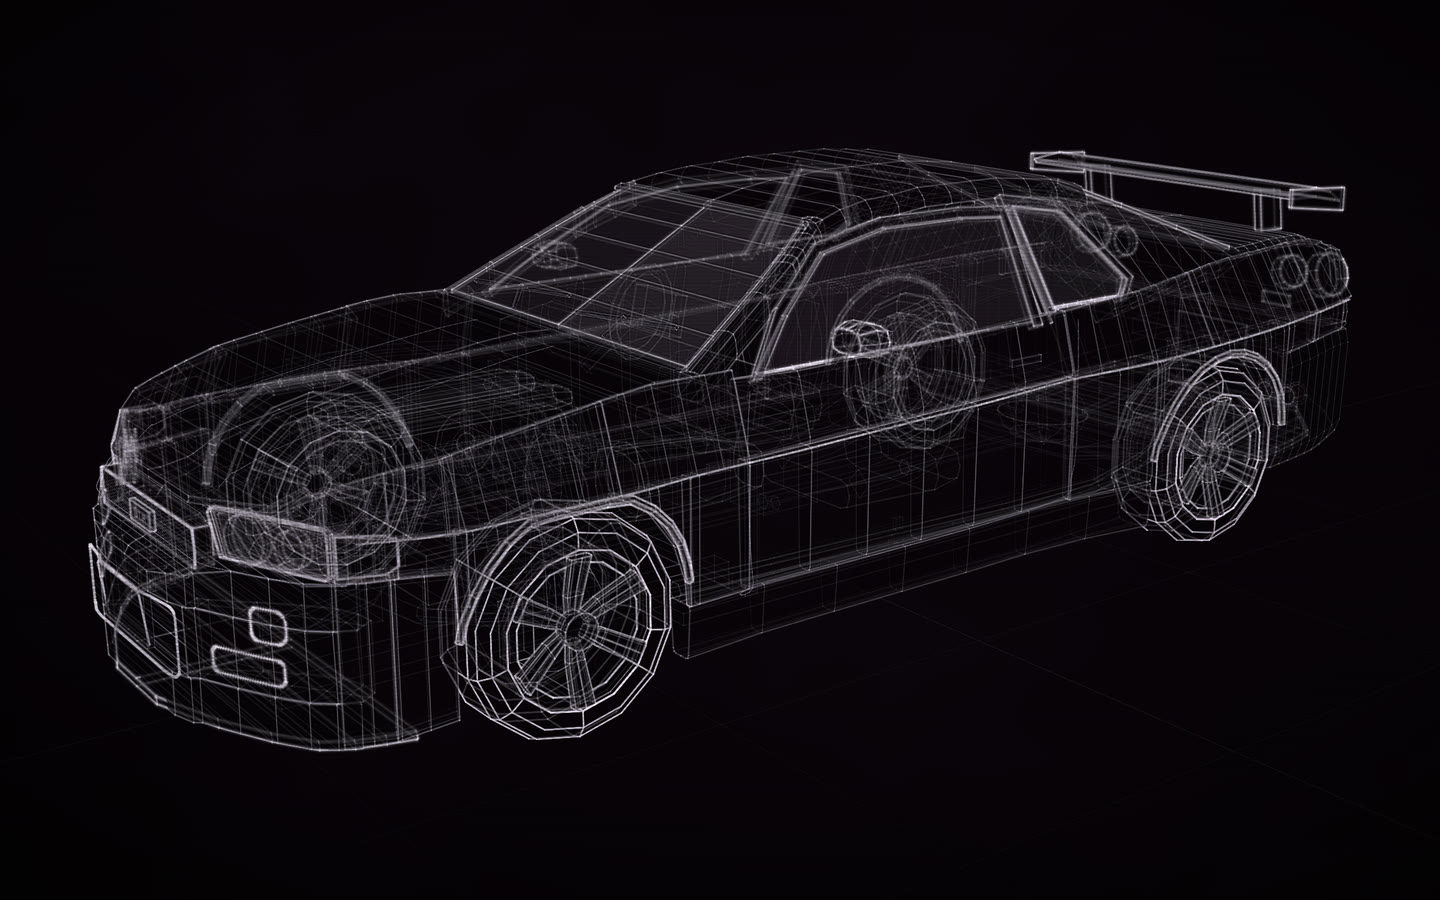
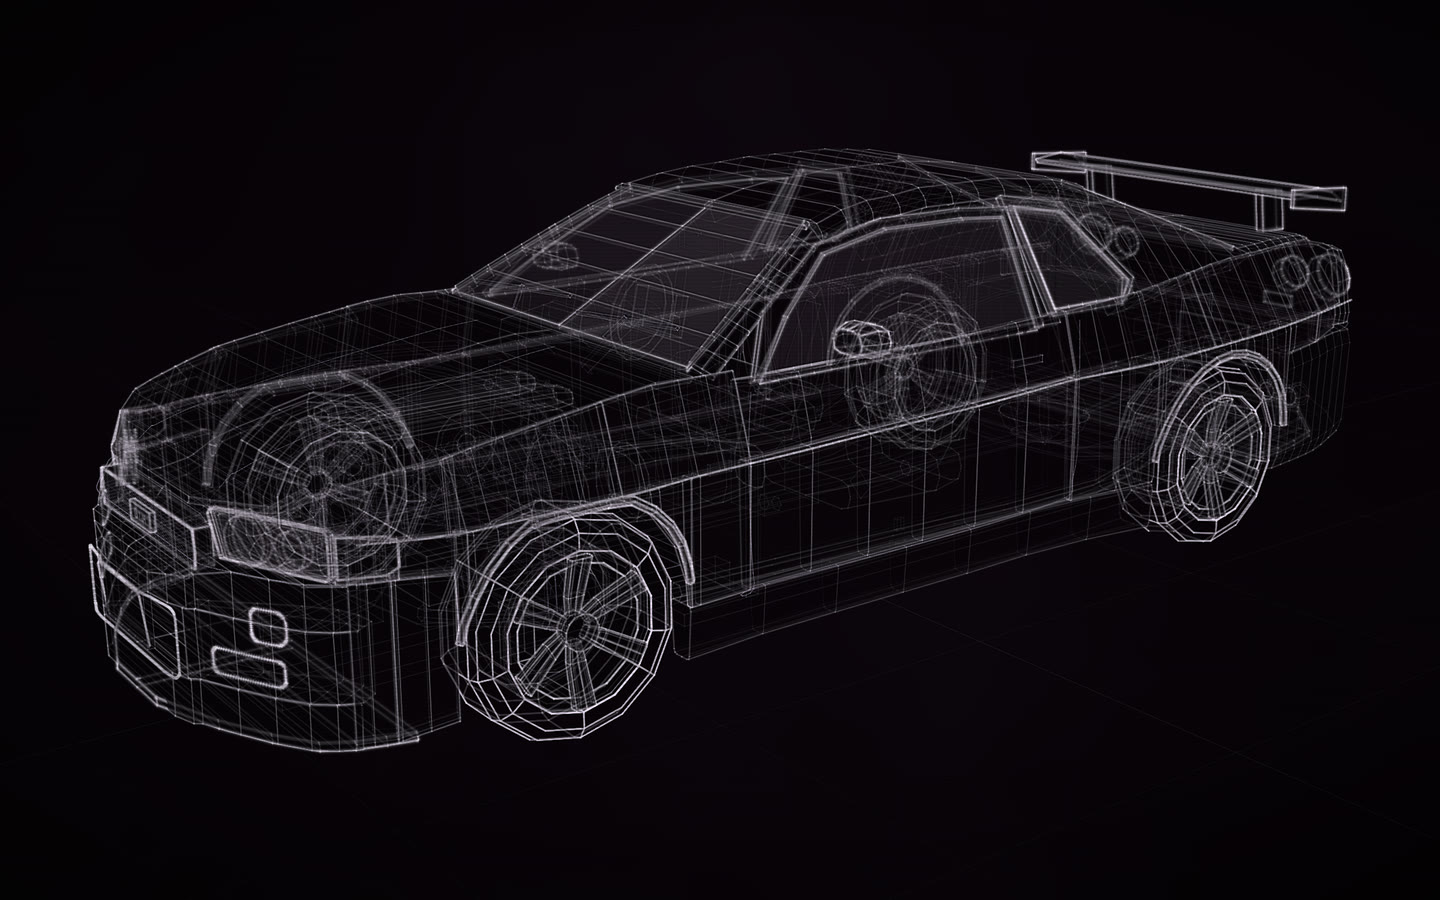
examples: the R34's rear quarters end on the tail panel; its page and gallery images
The upper rear quarter ends where the tail panel begins instead of in a point over its
corner; the page records the glasshouse and corner pass; hero and thumb regenerated.

diff --git a/examples/nissan-skyline-gt-r-r34/README.md b/examples/nissan-skyline-gt-r-r34/README.md
@@ -34,3 +34,22 @@ version showed defects the checks had let through; this version answers them, an
 
 The C-pillar, the sills, the diffuser and its strakes are no longer the tracing, and say so (`inferred`, with a
 note); nothing claims more than before. The light is all but unchanged.
+
+### The glasshouse and the corners (1.2)
+
+A second pass, judged in the solid and in Blender, on what still did not fit:
+
+- **Windows in their frames:** the A-pillars (`a-pillar`, `a-pillar-upper`) were flat-topped bars 10 cm wide and
+  8.5 cm deep, standing up to 9 cm above the door frame; each is now a strip 2 cm deep laid between the windscreen's
+  edge and the door frame, 4-6 mm proud of the glass. The sashes stand 4 mm proud of their glass (they stood
+  1.4 cm); the B-pillar fills between the two sashes, flush, where it was a 5 mm strip between two bars; the door and
+  quarter glass run into the belt instead of stopping 1-2 cm above it; the C-pillars run over the rear glass's edge.
+  Every pane now meets its frame or panel along at least 95% of its edge (within 4 mm).
+- **Rear corners:** the rear quarter panels (`quarter-upper`, `quarter-lower`) ran past the tail panel's rounded
+  corner and ended in flat caps standing 2.6-4 cm out of it; they are turned onto it, and the upper one ends where
+  the tail panel begins. The tail lamps are tilted 11° to the tail panel's face and set on it (they stood out at
+  the top and sank in at the bottom).
+- **Front bumper corners** (`front-bumper-side-2`): the flank ran 4.5 cm past the bumper's bands and ended in a
+  square end; it ends where they begin.
+
+These parts say how they are now known (`inferred` where they are no longer the tracing, with a note).

diff --git a/CHANGELOG.md b/CHANGELOG.md
@@ -27,6 +27,11 @@
   C-pillar) left corners a rounding apart and an extrusion closed by repeating its first point left an edge of no
   length: both now make one closed surface, and the poles of spheres and lathes no longer leave slivers. The
   light is unchanged; tests in `test_solids.py`.
+- **The R34's windows fit their frames:** a second pass judged in the solid and in Blender: its A-pillars, sashes,
+  B-pillar and C-pillars hold their glass (every pane meets its frame or panel along at least 95% of its edge,
+  within 4 mm; the A-pillars stood up to 9 cm proud), its rear quarter panels end on the tail panel instead of in caps
+  standing out of it, its tail lamps sit on the tail panel's face and its bumper flanks end where the bumper's bands
+  begin ([its page](examples/nissan-skyline-gt-r-r34/README.md)).
 - **The R34, refined for the solid** ([its page](examples/nissan-skyline-gt-r-r34/README.md)): its C-pillar
   closes between the rear glass and the shoulder instead of standing as a fin through the quarter window, its
   bumper flanks are closed, its rear bumper and tail no longer pillow, its sills run straight and flush, its
